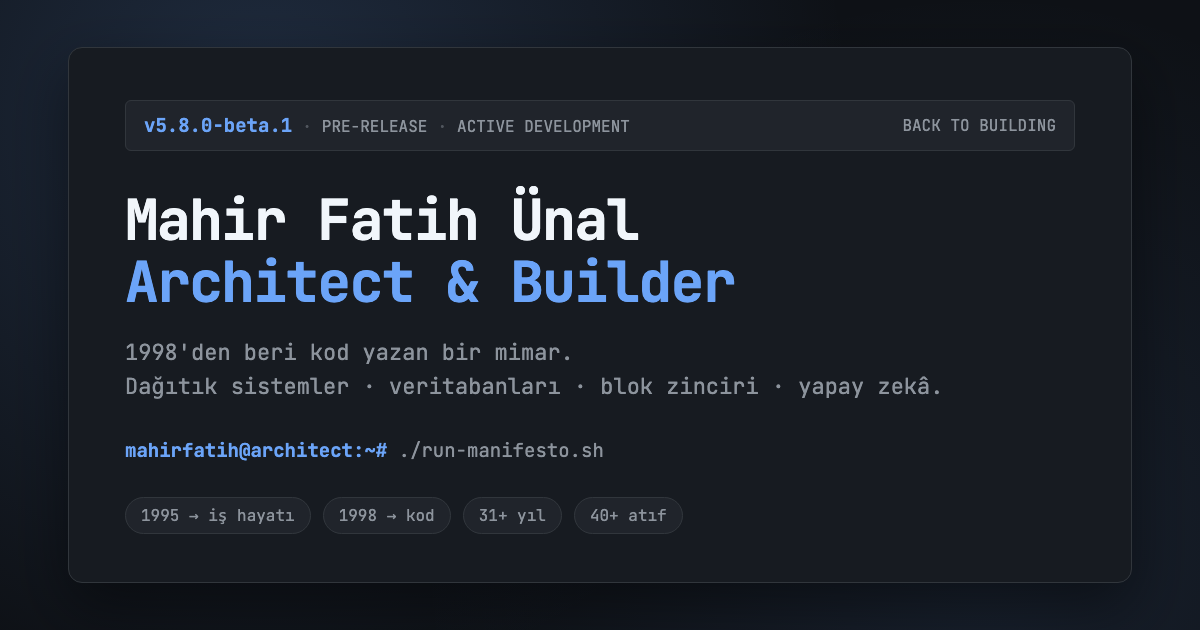
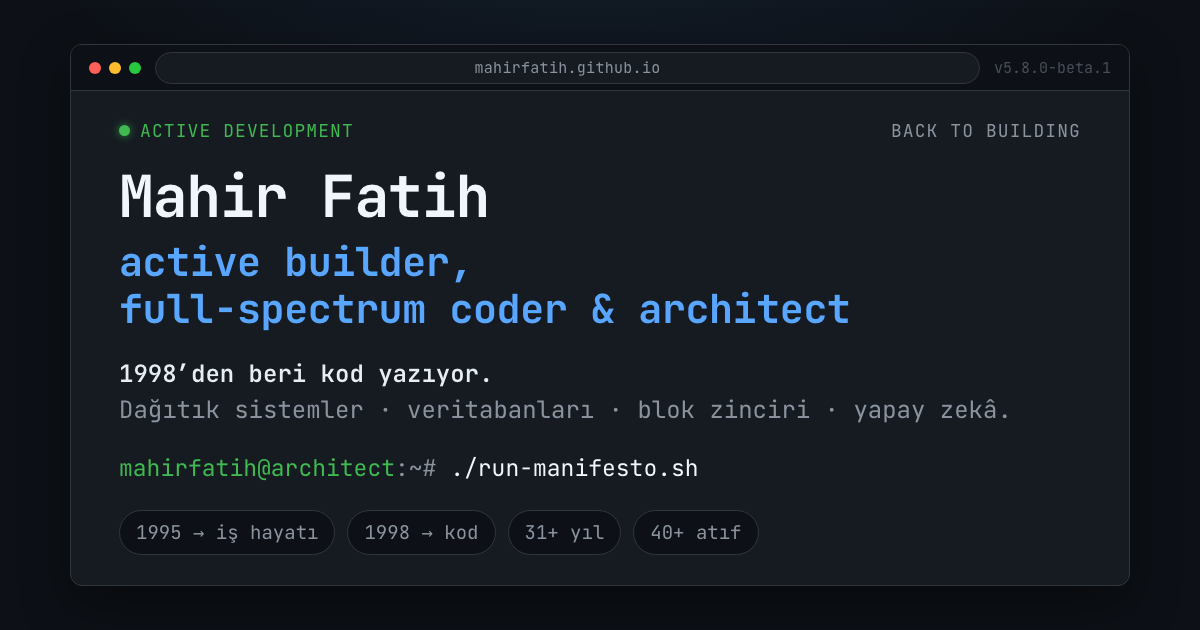
Redesign og-image in GitHub dark style
- 1200x630 rendered from og-image.html with self-hosted JetBrains Mono
- Browser-chrome card, green ACTIVE DEVELOPMENT dot, blue identity line
- Verified: no overflow at 1200x630 (scripted bounds check)

diff --git a/og-image.html b/og-image.html
@@ -1,0 +1,143 @@
+<!DOCTYPE html>
+<html lang="tr">
+<head>
+<meta charset="utf-8">
+<meta name="robots" content="noindex">
+<title>og-image source — 1200×630</title>
+<style>
+    /* source for images/og-image.png — render with:
+       Chrome --headless=new --hide-scrollbars --window-size=1200,630 \
+              --virtual-time-budget=6000 --screenshot=... og-image.html
+       Numeric overflow check: append #check then --dump-dom | grep CHECK */
+    @font-face {
+        font-family: "JetBrains Mono";
+        src: url("fonts/jetbrains-latin.woff2") format("woff2");
+        font-weight: 100 800; font-style: normal; font-display: block;
+        unicode-range: U+0000-00FF, U+0131, U+0152-0153, U+02BB-02BC, U+02C6, U+02DA, U+02DC, U+0304, U+0308, U+0329, U+2000-206F, U+20AC, U+2122, U+2191, U+2193, U+2212, U+2215, U+FEFF, U+FFFD;
+    }
+    @font-face {
+        font-family: "JetBrains Mono";
+        src: url("fonts/jetbrains-latin-ext.woff2") format("woff2");
+        font-weight: 100 800; font-style: normal; font-display: block;
+        unicode-range: U+0100-02BA, U+02BD-02C5, U+02C7-02CC, U+02CE-02D7, U+02DD-02FF, U+0304, U+0308, U+0329, U+1D00-1DBF, U+1E00-1E9F, U+1EF2-1EFF, U+2020, U+20A0-20AB, U+20AD-20C4, U+2113, U+2C60-2C7F, U+A720-A7FF;
+    }
+    * { margin: 0; padding: 0; box-sizing: border-box; }
+    html, body { width: 1200px; height: 630px; overflow: hidden; }
+    body {
+        background: #0d1117;
+        background-image: radial-gradient(ellipse 900px 500px at 50% -20%, rgba(88,166,255,.09), transparent 65%);
+        color: #e6edf3;
+        font-family: "JetBrains Mono", ui-monospace, SFMono-Regular, Menlo, monospace;
+        display: flex; align-items: center; justify-content: center;
+        -webkit-font-smoothing: antialiased;
+    }
+    .card {
+        width: 1060px;
+        background: #161b22;
+        border: 1px solid #30363d;
+        border-radius: 12px;
+        overflow: hidden;
+        box-shadow: 0 18px 50px rgba(0,0,0,.45);
+    }
+    .chrome {
+        display: flex; align-items: center; gap: 14px;
+        height: 46px; padding: 0 18px;
+        background: #0d1117;
+        border-bottom: 1px solid #30363d;
+    }
+    .dots { display: flex; gap: 8px; }
+    .dots i { width: 12px; height: 12px; border-radius: 50%; display: block; }
+    .d1 { background: #ff5f56; }
+    .d2 { background: #ffbd2e; }
+    .d3 { background: #27c93f; }
+    .url {
+        flex: 1; text-align: center;
+        font-size: 15px; color: #8b949e; letter-spacing: .02em;
+        background: #161b22; border: 1px solid #30363d; border-radius: 999px;
+        padding: 5px 0;
+    }
+    .ver { font-size: 15px; color: #484f58; white-space: nowrap; }
+    .body { padding: 28px 48px 30px; }
+    .status {
+        display: flex; justify-content: space-between; align-items: center;
+        font-size: 18px; letter-spacing: .06em; color: #8b949e;
+        margin-bottom: 24px; white-space: nowrap;
+    }
+    .status .live { color: #3fb950; display: flex; align-items: center; gap: 10px; }
+    .status .live::before {
+        content: ""; width: 11px; height: 11px; border-radius: 50%;
+        background: #3fb950; box-shadow: 0 0 8px rgba(63,185,80,.7);
+    }
+    h1 {
+        font-size: 58px; line-height: 1.05; font-weight: 700;
+        color: #f0f6fc; letter-spacing: -.02em; margin-bottom: 12px;
+    }
+    .tag {
+        font-size: 40px; line-height: 1.16; font-weight: 700;
+        color: #58a6ff; letter-spacing: -.01em; margin-bottom: 24px;
+    }
+    .sub { font-size: 24px; line-height: 1.5; color: #8b949e; margin-bottom: 26px; }
+    .sub b { color: #e6edf3; font-weight: 600; display: block; }
+    .prompt { font-size: 23px; line-height: 1.3; margin-bottom: 26px; color: #f0f6fc; white-space: nowrap; }
+    .prompt .u { color: #3fb950; }
+    .prompt .p { color: #8b949e; }
+    .chips { display: flex; gap: 12px; }
+    .chip {
+        border: 1px solid #30363d; background: #0d1117; color: #8b949e;
+        font-size: 19px; padding: 9px 16px; border-radius: 999px; white-space: nowrap;
+    }
+    #checkresult { position: fixed; left: -4000px; top: 0; }
+</style>
+</head>
+<body>
+    <div class="card">
+        <div class="chrome">
+            <div class="dots"><i class="d1"></i><i class="d2"></i><i class="d3"></i></div>
+            <div class="url">mahirfatih.github.io</div>
+            <div class="ver">v5.8.0-beta.1</div>
+        </div>
+        <div class="body">
+            <div class="status">
+                <span class="live">ACTIVE DEVELOPMENT</span>
+                <span>BACK TO BUILDING</span>
+            </div>
+            <h1>Mahir Fatih</h1>
+            <div class="tag">active builder,<br>full-spectrum coder &amp; architect</div>
+            <div class="sub"><b>1998’den beri kod yazıyor.</b>Dağıtık sistemler · veritabanları · blok zinciri · yapay zekâ.</div>
+            <div class="prompt"><span class="u">mahirfatih@architect</span><span class="p">:~#</span> ./run-manifesto.sh</div>
+            <div class="chips">
+                <span class="chip">1995 → iş hayatı</span>
+                <span class="chip">1998 → kod</span>
+                <span class="chip">31+ yıl</span>
+                <span class="chip">40+ atıf</span>
+            </div>
+        </div>
+    </div>
+<script>
+if (location.hash === '#check') {
+    addEventListener('load', function () {
+        var done = function () {
+            var W = 1200, H = 630, issues = [];
+            var de = document.documentElement;
+            if (de.scrollWidth > W) issues.push('scrollW=' + de.scrollWidth);
+            if (de.scrollHeight > H) issues.push('scrollH=' + de.scrollHeight);
+            var c = document.querySelector('.card').getBoundingClientRect();
+            issues.unshift('card L' + Math.round(c.left) + ' R' + Math.round(c.right) + ' T' + Math.round(c.top) + ' B' + Math.round(c.bottom));
+            document.querySelectorAll('.card, .card *').forEach(function (el) {
+                if (el.scrollWidth > el.clientWidth + 1) issues.push('ovf:' + (el.className || el.tagName));
+                var r = el.getBoundingClientRect();
+                if (r.right > W - 20 || r.left < 20 || r.bottom > H - 10 || r.top < 10) {
+                    issues.push('bound:' + (el.className || el.tagName));
+                }
+            });
+            var t = document.createElement('div');
+            t.id = 'checkresult';
+            t.textContent = 'CHECK: ' + (issues.length > 1 ? 'ISSUES ' + issues.join(' | ') : 'OK');
+            document.body.appendChild(t);
+        };
+        (document.fonts && document.fonts.ready ? document.fonts.ready : Promise.resolve()).then(done);
+    });
+}
+</script>
+</body>
+</html>
